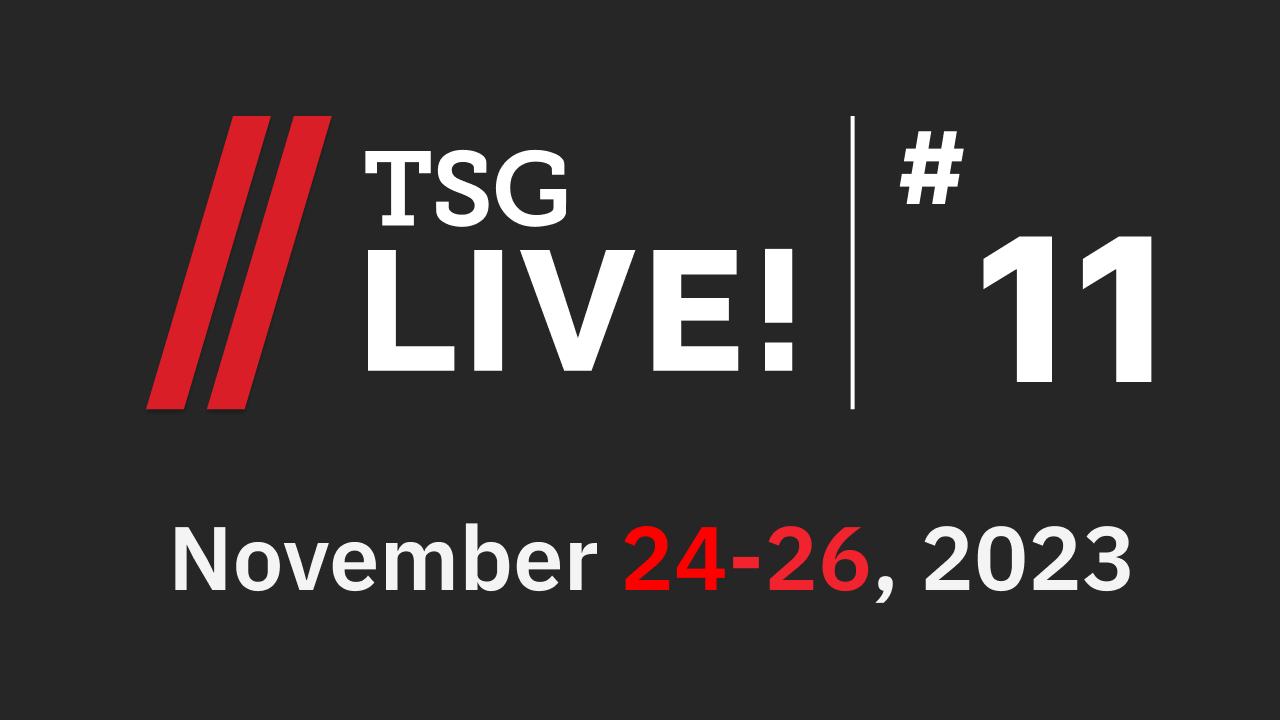
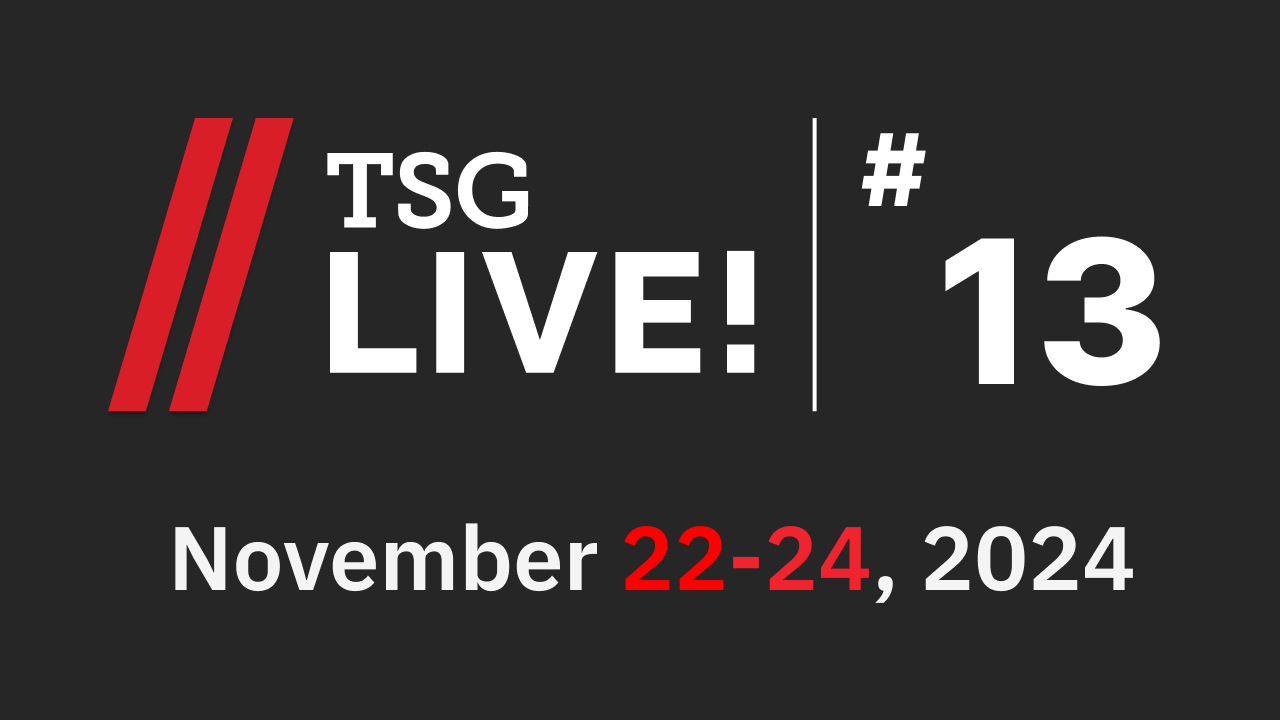
Change for tsg live! 13

diff --git a/index.html b/index.html
@@ -5,7 +5,7 @@
   <meta name="viewport"
         content="width=device-width, user-scalable=no, initial-scale=1.0">
   <meta http-equiv="X-UA-Compatible" content="ie=edge">
-  <title>TSG LIVE! 12</title>
+  <title>TSG LIVE! 13</title>
 
   <link rel="apple-touch-icon" sizes="180x180" href="/apple-touch-icon.png">
   <link rel="icon" type="image/png" sizes="32x32" href="/favicon-32x32.png">
@@ -20,56 +20,64 @@
 <div class="container">
   <div class="header">
     <div class="logo">
-      <img src="./twitter_banner2024-5.png" alt="TSG LIVE! 12" class="logo-img">
+      <img src="./twitter_banner.png" alt="TSG LIVE! 13" class="logo-img">
     </div>
     <div class="flex-1"></div>
 <!--    <p><a href="https://www.youtube.com/channel/UCzCqJL3-RdhTw9WHYDbPO4Q">YouTube</a></p>-->
   </div>
   <h1 class="midashi-text">東大生がお送りするプログラミング・ライブ!!</h1>
+  <h1 class="title">会場</h1>
+  <div class="kaijou">
+    <h1>駒場Ⅰキャンパス 13号館 4階 1341教室</13></h1>
+  </div>
   <h1 class="title">スケジュール</h1>
   <div class="schedule">
     <div class="card">
-      <h2>5/18 (土)</h2>
-      <h2><工学部三号館4階 35号講義室></h2>
-      <h3>13:00-15:00</h3>
-      <h1><span class="deemphasize">ライブ</span>CTF</h1>
-      <h3>16:00-</h3>
+      <h2>11/22 (金)</h2>
+      <h3>13:00-</h3>
       <h1>ライトニングトーク</h1>
-      <a href="https://www.youtube.com/live/r80qUQXjjXU" class="button">視聴する</a>
+      <a href="https://youtube.com/live/ZsxATCXva7Y" class="button">視聴する</a>
     </div>
     <div class="card">
-      <h2>5/19 (日)</h2>
-      <h2><工学部三号館4階 35号講義室></h2>
-      <h3>13:30-15:30</h3>
-      <h1><span class="deemphasize">ライブ</span>コードゴルフ</h1>
-      <h3>16:00-18:00</h3>
+      <h2>11/23 (土)</h2>
+      <h3>13:00-</h3>
       <h1><span class="deemphasize">ライブ</span>競技プログラミング</h1>
-      <a href="https://www.youtube.com/watch?v=5W6Rykzg1vU" class="button">視聴する</a>
+      <a href="https://youtube.com/live/rXkzVsy5FW0" class="button">視聴する</a>
+    </div>
+    <div class="card">
+      <h2>11/24 (日)</h2>
+      <h3>13:00-</h3>
+      <h1><span class="deemphasize">ライブ</span>コードゴルフ</h1>
+      <a href="https://youtube.com/live/LxjGkFgic3M" class="button">視聴する</a>
     </div>
   </div>
   <h1 class="title">競技紹介</h1>
   <div class="intro-box">
     <div class="intro">
-      <h1>CTF</h1>
-      <p>CTFは、プログラムの脆弱性をついて攻撃を成功させる技術、いわゆるハッキング技術を競う競技です。<br/>
-        今回のライブCTFでは競技者の画面もリアルタイムで配信されるため、競技者がプログラムを解析して、攻撃コードを構築する様子を見ることができます。解析ツールを駆使し、画面に現れる大量の情報を適切に処理しながら攻撃していく様子を、臨場感とともにお楽しみください!</p>
+      <h1>ライトニングトーク</h1>
+      <p>ライトニングトークとは、およそ10分以内の短い時間で発表するプレゼンテーションのことを言います。<br/>
+        TSG LIVE! では、部員が主にコンピューターやプログラミングに関連するトピックについて、プレゼンをします。<br/>
+        かなり専門性の高いトピックもあり、ネットには書いてないようなことも聞けるかもしれません。<br/>
+        忙しく勉強する時間が取れない方、ニッチな話を聞きたい方など、ライブLTで気軽に知識を深めてみてはどうでしょうか。</p>
     </div>
     <div class="intro">
-      <h1>コードゴルフ</h1>
-      <p>プログラムの実行時間も読みやすさも気にせず、ただひたすら文字数の少なさを追求します!<br/>
-        改行やスペースを切り詰めたり、変数名をすべて一文字に変えたり、ドキュメントを読み込み謎の言語機能を活用したり、アルゴリズムを限界まで最適化したり……<br/>
-        様々なテクニックを駆使して究極に短いプログラムを作り上げる様子にぜひご注目ください!</p>
+    <h1>競技プログラミング</h1>
+    <p>競技プログラミングとは、制限時間内に与えられた問題を効率よく解くプログラムを書く競技です。<br/>
+      人間にとって分かりやすい方法でも、コンピューターにとってはその方法では効率が悪く、問題を解くのに時間がかかることもあります。アルゴリズムを工夫して効率の良いプログラムを書くことがカギとなります。<br/>
+      簡単な問題はスピードが命。素早く問題文を理解し、一瞬でコードを書き上げる様子は必見です。<br/>
+      難しい問題は限られた時間内で試行錯誤しひらめく力が求められます。競技者たちが奮闘する様子を実況解説とともにお楽しみください!</p>
     </div>
     <div class="intro">
-      <h1>競技プログラミング</h1>
-      <p>今回のライブ競技プログラミングでは4人の作問陣による計10個の問題に2人の競技者が挑みます。<br/>
-        簡単な問題はスピードが命となります。素早く問題文を理解し、一瞬でコードを書き上げる様子は必見です。<br/>
-        難しい問題は限られた時間内で試行錯誤しひらめく力が求められます。競技者たちが奮闘する様子を実況解説とともにお楽しみください!</p>
+    <h1>コードゴルフ</h1>
+    <p>通常のコードゴルフでは、与えられた課題を解くプログラムをできるだけ少ない文字数で書くことが目的となります。<br/>
+      今回のライブコードゴルフではそれをさらに押し進め、文字数だけでなく文字種数や１行の長さなどそれぞれに縛りを設け、それを満たすプログラムを書く、という形式で競技を行います。<br/>
+      改行やスペースを切り詰めたり、変数名をすべて一文字に変えたり、ドキュメントを読み込み謎の言語機能を活用したり、アルゴリズムを限界まで最適化したり……<br/>
+      縛りの中で如何に動くプログラムを作り上げるのか、その様子にぜひご注目ください!</p>
     </div>
   </div>
   <h1 class="title">アンケート</h1>
   <div class="questionnare">
-    <p><a href="https://docs.google.com/forms/d/e/1FAIpQLSe6H_rQkR-rieZmGrkvVRkY8_re0F8F0UbnubP-19rYOPUTaQ/viewform" target="_blank" rel="noopener noreferrer">アンケート</a>
+    <p><a href="https://forms.gle/G6fhVJWtkAT8LsFQ6" target="_blank" rel="noopener noreferrer">アンケート</a>
       回答へのご協力お願いします。</p>
   </div>
 </div>

diff --git a/style.css b/style.css
@@ -161,6 +161,24 @@ a:active, a:active:visited, a:active:visited:hover {
     margin-bottom: 8px;
 }
 
+.kaijou {
+    background-color: #262626;
+    /*box-shadow: 0 2px 6px 0 rgba(0, 0, 0, 0.2);*/
+    gap: 10px;
+    margin: 0 -16px 50px -16px;
+    padding: 16px;
+}
+
+.kaijou h1 {
+    font-size:  24px;
+    text-decoration: underline;
+    text-decoration-thickness: 1.5px;
+}
+
+.card h2 {
+    font-size: 18px;
+}
+
 .button {
     display: inline-block;
     padding: 16px;
@@ -180,6 +198,15 @@ a:active, a:active:visited, a:active:visited:hover {
     text-decoration: none;
     color: inherit;
     background-color: #750e13;
+}
+
+.unable_button {
+    display: inline-block;
+    padding: 16px;
+    margin: 0;
+    background-color: #808080;
+    text-decoration: none;
+    color: inherit;
 }
 
 .intro-box {
